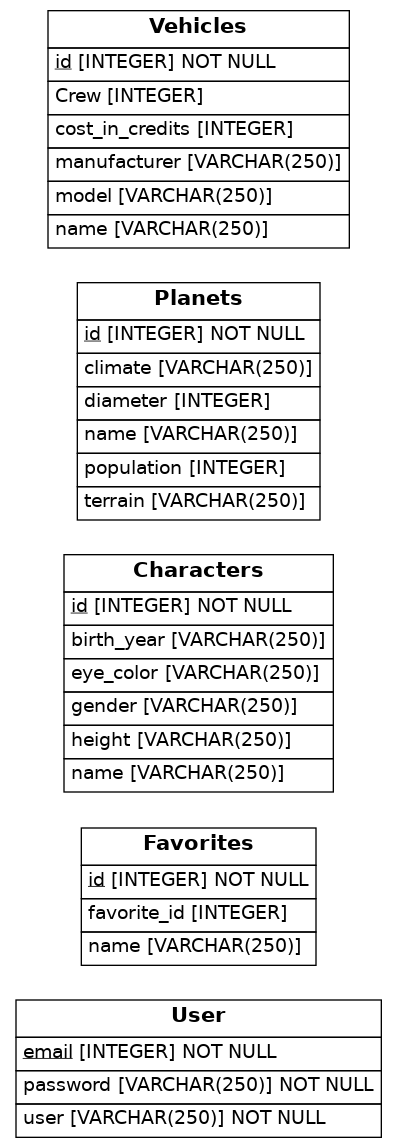
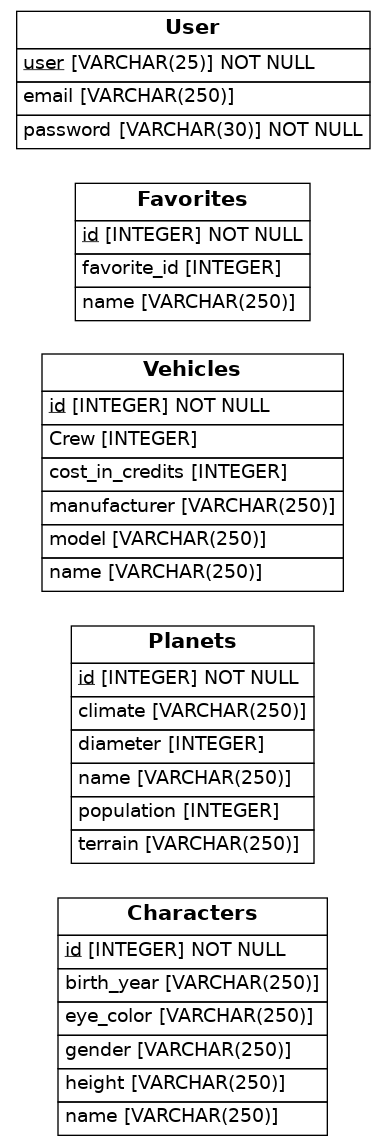
order of tables

Changed region(s): [[0.0312, 0.0, 0.9662, 1.0]]

diff --git a/src/models.py b/src/models.py
@@ -7,21 +7,6 @@ from eralchemy2 import render_er
 
 Base = declarative_base()
 
-class User(Base):
-    __tablename__ = 'User'
-    user = Column (String(250), nullable = False)
-    email = Column(Integer, primary_key=True)
-    password = Column(String(250), nullable=False)
-    favorite_planets = relationship('Planets')
-    favorite_characters = relationship('Character')
-    favorite_vehicles = relationship('Vehicles')
-
-class Favorites(Base):
-    __tablename__ = 'Favorites'
-    id = Column(Integer, primary_key = True)
-    favorite_id = Column(Integer, )
-    name = Column(String(250))
-
 class Characters(Base):
     __tablename__='Characters'
     id = Column(Integer, primary_key = True)
@@ -51,6 +36,23 @@ class Vehicles(Base):
     manufacturer = Column(String(250))
     cost_in_credits = Column(Integer)
     Crew = Column(Integer)
+
+class Favorites(Base):
+    __tablename__ = 'Favorites'
+    id = Column(Integer, primary_key = True)
+    favorite_id = Column(Integer, )
+    name = Column(String(250))
+
+class User(Base):
+    __tablename__ = 'User'
+    user = Column (String(25), primary_key=True, nullable = False)
+    email = Column(String(250))
+    password = Column(String(30), nullable=False)
+    favorite_planets = relationship('Planets', )
+    favorite_characters = relationship('Character')
+    favorite_vehicles = relationship('Vehicles')
+
+
 
     def to_dict(self):
         return {}
